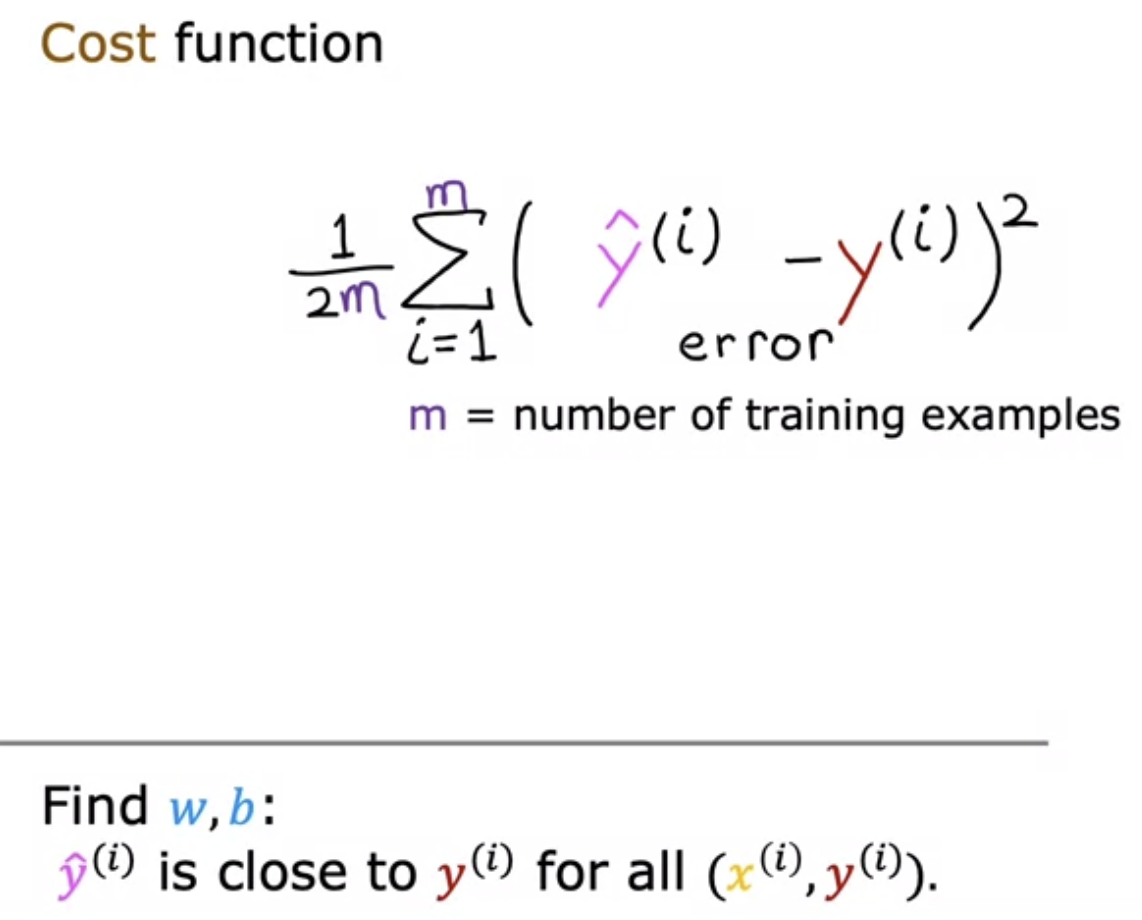
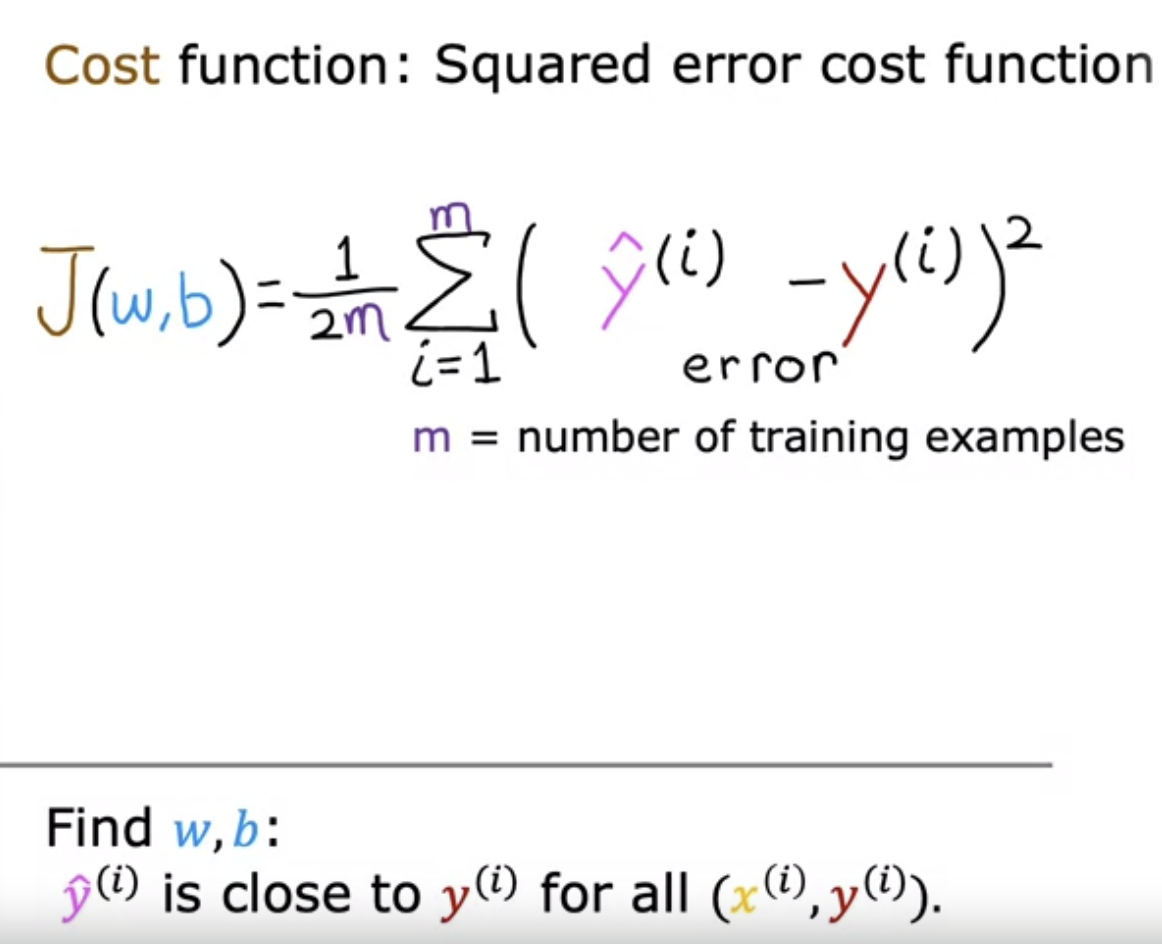
Updates

diff --git a/README.md b/README.md
@@ -149,5 +149,56 @@
       - `1/m` to take the average
       - The `2` is to make some of the later calculations a bit neater
         - This is optional
+  - This is one example, there are many more types of cost functions
+    - Squared error cost is the most popular for linear regression and other types of algorithms as well
 
 ![Alt text](./images/12.png)
+
+### Cost Function Intuition
+
+- We want to minimize the cost (`J(w, b)`)
+- Below is a simplified cost function where `b = 0`
+- Goal: Minimize the cost function
+
+![Alt text](./images/13.png)
+
+- Below is an example where we have a perfectly fit line to our training example, `w = 1`
+  - Note that the cost function is 0
+- In the graph on the right had side, note that `J(1) = 0` because our cost function was 0 when `w = 1`
+
+![Alt text](./images/14.png)
+
+- Below is an exmaple where we have `w = 0.5` which is not perfectly fit
+
+![Alt text](./images/15.png)
+
+- Below is an eaxmple where we have `w = 0`
+
+![Alt text](./images/16.png)
+
+- We can keep doing this for many many values of `w`
+- By continuing to do this calculation, we can create find what the cost function J looks like
+  - Each value of parameter `w` corresponds to a different fitting line in f(x)
+  - So for each point on the J(w) graph, you have a corresponding line for f(x)
+
+![Alt text](./images/17.png)
+
+- We want to choose `w` that minimizes `J(w)`
+  - Following this example, we would choose `w = 1` because `J(w) = 0` here
+
+### Visualizing the Cost Function
+
+- When we have both w and b (b != 0)
+  - Note that this is the 3D version of the graph we had when b = 0
+- As w and b are varied, get different values for the cost function `J`
+  - Any point on this graph is a particular selection of w and b
+
+![Alt text](./images/18.png)
+
+- These 3D plots can be generated as a 2D contour plot to better visualize the cost function and to see the minimum
+
+![Alt text](./images/19.png)
+
+### Visualization Examples
+
+- 
